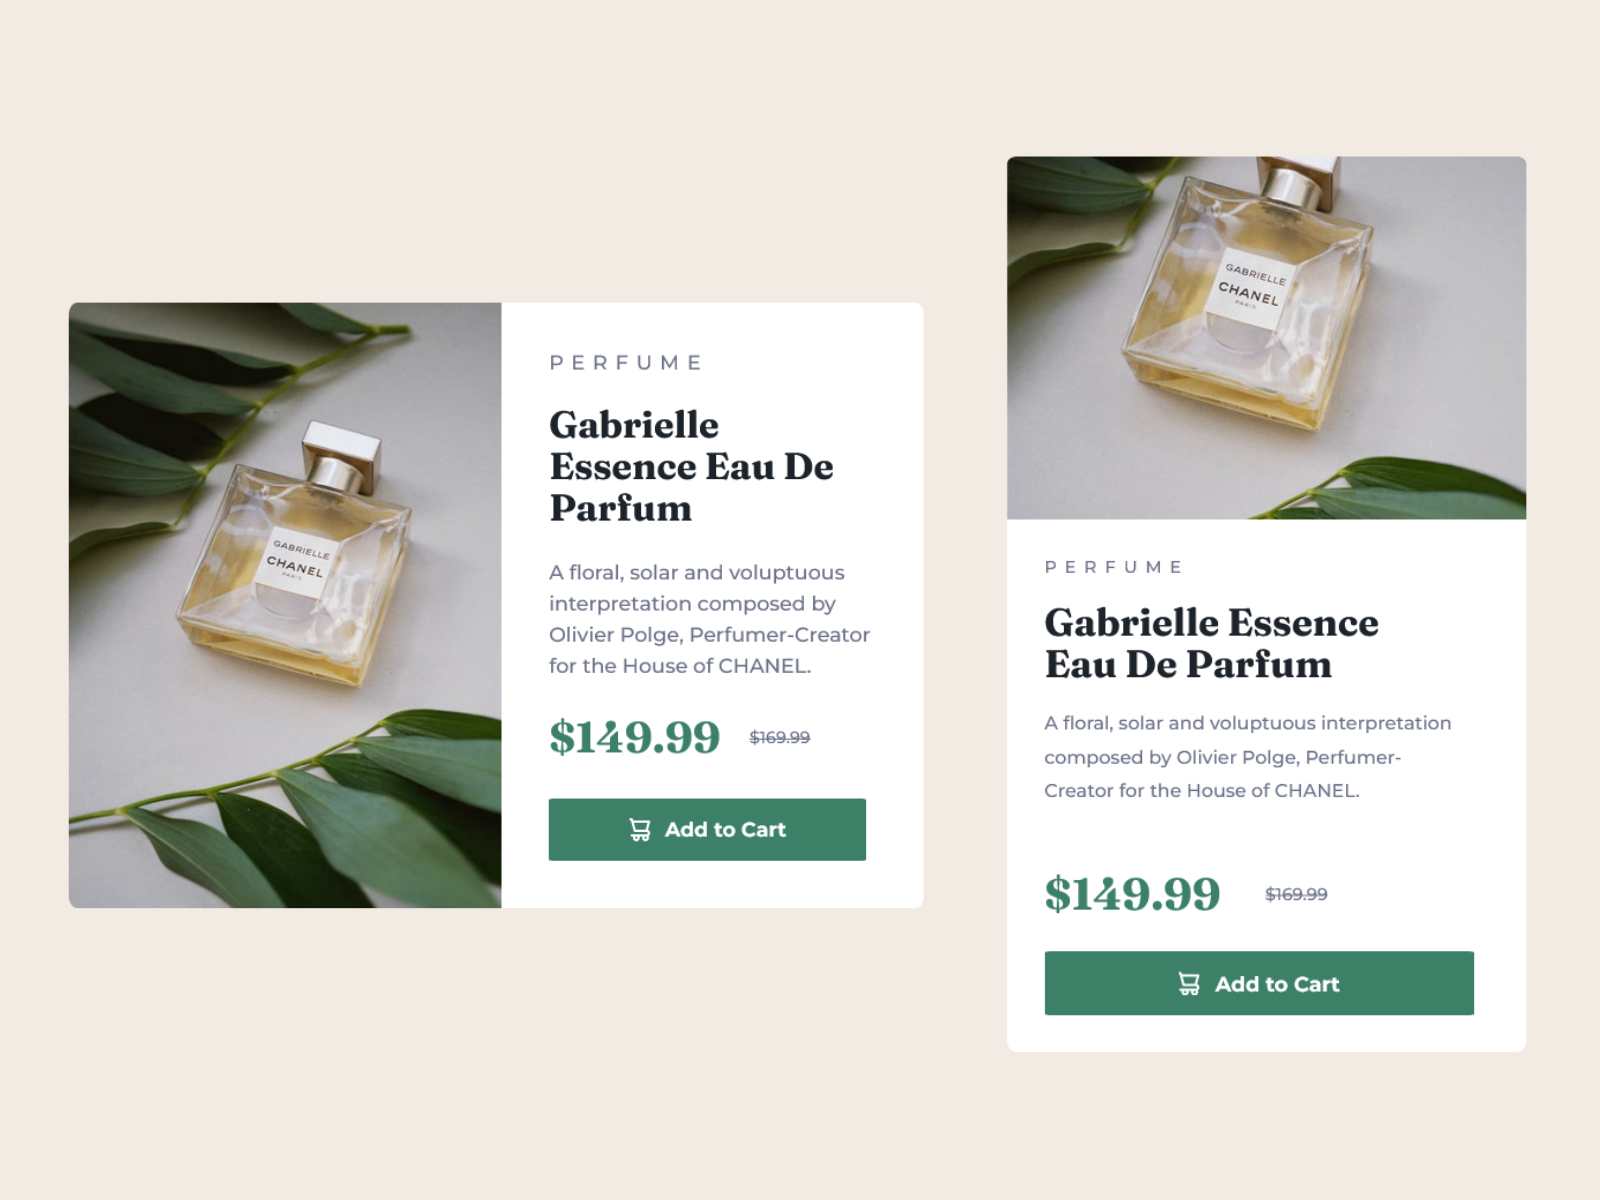
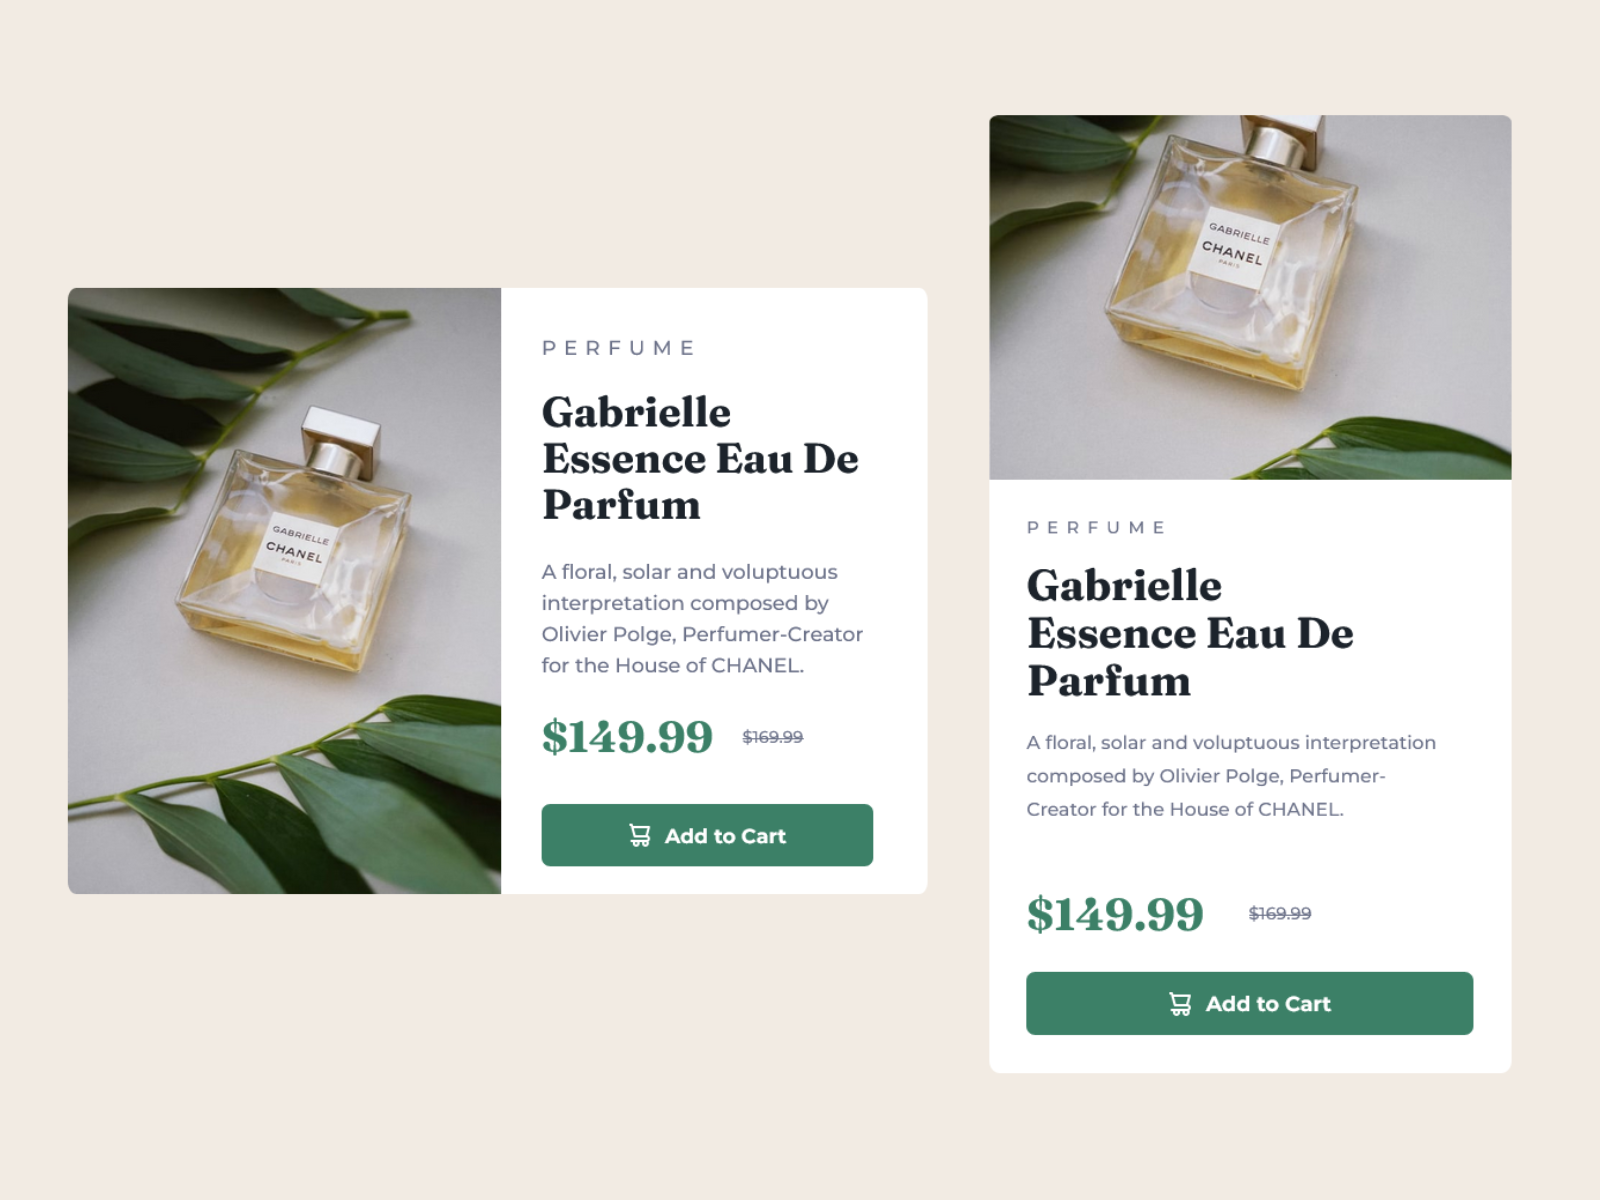
made some modifications

Changed region(s): [[0.0312, 0.0925, 0.9688, 0.8942]]

diff --git a/styles.scss b/styles.scss
@@ -31,9 +31,10 @@ body{
 
     #text-content{
         background-color: $white;
-        padding: 33px 20px 0px 33px;
+        padding: 33px 0px 0px 28px;
         border-top-right-radius: 2%;
         border-bottom-right-radius: 2%;
+        width: 295px;
 
         h1{
             text-transform: uppercase;
@@ -48,11 +49,11 @@ body{
             font-family: 'Fraunces', serif;
             color: $veryDarkBlue;
             word-wrap: break-word;
-            width: 200px;
+            width: 220px;
             line-height: 1.1;
             font-weight: 700;
             margin: 20px 0;
-            font-size: 26px;
+            font-size: 29px;
         }
 
         p{
@@ -90,7 +91,7 @@ body{
 
         button{
             display: block;
-            width: 220px;
+            width: 230px;
             padding: 13px 0;
             display: flex;
             flex-direction: row;
@@ -98,8 +99,8 @@ body{
             align-items: center;
             background-color: $darkCyan;
             border: none;
-            margin-top: 24px;
-            border-radius: 2%;
+            margin-top: 28px;
+            border-radius: 6px;
 
             span{
                 font-family: 'Montserrat', sans-serif;
@@ -137,6 +138,7 @@ body{
             padding: 25px;
             border-top-right-radius: 0%;
             border-bottom-left-radius: 2%;
+            width: 350px;
 
             h1{
                 font-size: 11.5px;
@@ -163,10 +165,9 @@ body{
             }
     
             button{
-                width: 290px;
+                width: 300px;
                 padding: 13px 0;
                 margin-top: 18px;
-                border-radius: 2%;
     
                 span{
                     font-family: 'Montserrat', sans-serif;

diff --git a/styles.css b/styles.css
@@ -24,9 +24,10 @@ body {
 }
 #box #text-content {
   background-color: hsl(0deg, 0%, 100%);
-  padding: 33px 20px 0px 33px;
+  padding: 33px 0px 0px 28px;
   border-top-right-radius: 2%;
   border-bottom-right-radius: 2%;
+  width: 295px;
 }
 #box #text-content h1 {
   text-transform: uppercase;
@@ -40,11 +41,11 @@ body {
   font-family: "Fraunces", serif;
   color: hsl(212deg, 21%, 14%);
   word-wrap: break-word;
-  width: 200px;
+  width: 220px;
   line-height: 1.1;
   font-weight: 700;
   margin: 20px 0;
-  font-size: 26px;
+  font-size: 29px;
 }
 #box #text-content p {
   font-family: "Montserrat", sans-serif;
@@ -77,7 +78,7 @@ body {
 }
 #box #text-content button {
   display: block;
-  width: 220px;
+  width: 230px;
   padding: 13px 0;
   display: flex;
   flex-direction: row;
@@ -85,8 +86,8 @@ body {
   align-items: center;
   background-color: hsl(158deg, 36%, 37%);
   border: none;
-  margin-top: 24px;
-  border-radius: 2%;
+  margin-top: 28px;
+  border-radius: 6px;
 }
 #box #text-content button span {
   font-family: "Montserrat", sans-serif;
@@ -118,6 +119,7 @@ body {
     padding: 25px;
     border-top-right-radius: 0%;
     border-bottom-left-radius: 2%;
+    width: 350px;
   }
   #box #text-content h1 {
     font-size: 11.5px;
@@ -139,10 +141,9 @@ body {
     margin-left: 30px;
   }
   #box #text-content button {
-    width: 290px;
+    width: 300px;
     padding: 13px 0;
     margin-top: 18px;
-    border-radius: 2%;
   }
   #box #text-content button span {
     font-family: "Montserrat", sans-serif;
